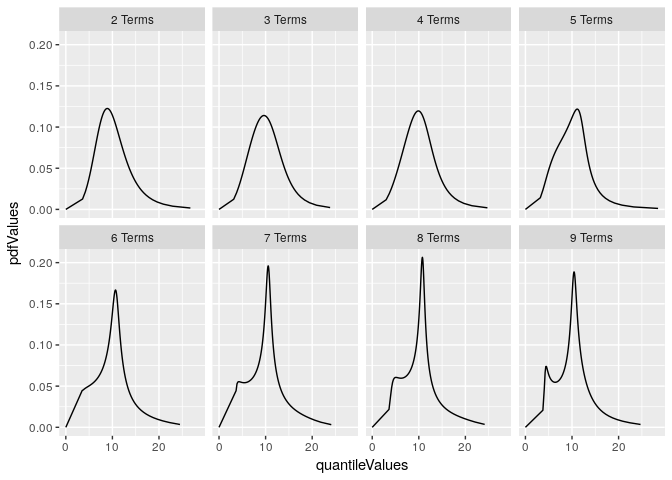
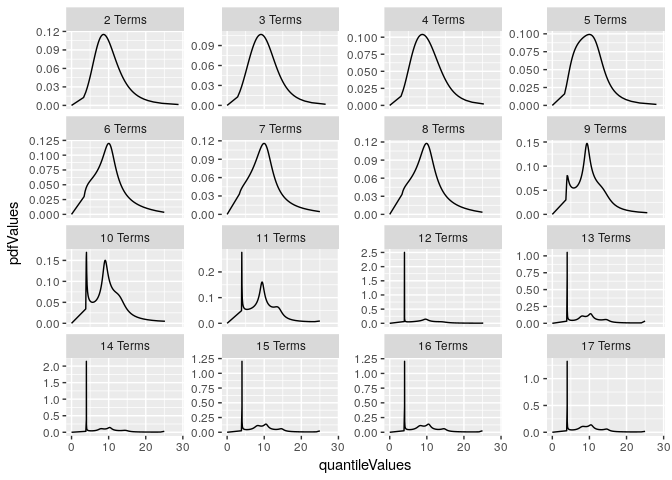
updating the readme with better plots

diff --git a/README.md b/README.md
@@ -61,12 +61,12 @@ In order to create a metalog distribution use the function and assigned the outp
 
 ``` r
 #use a smaller subset for performance
-mysample <- fishSize[sample(1:nrow(fishSize), 200,replace=FALSE),]
+mysample <- fishSize[sample(1:nrow(fishSize), 250,replace=FALSE),]
 myMetalog <- rMetalog(mysample,
                       step_len = .01,
                       bounds=0,
                       boundedness = 'sl',
-                      term_limit = 9)
+                      term_limit = 17)
 #> [1] "Building the metalog distributions now"
 #> [1] "Building distribution functions and samples"
 ```
@@ -93,10 +93,16 @@ myMetalog$Validation
 You can now plot some of the results using
 
 ``` r
-myMetalog$GridPlot
+myMetalog$GridPlotPDF
 ```
 
 ![](README-unnamed-chunk-9-1.png)
+
+``` r
+myMetalog$GridPlotCDF
+```
+
+![](README-unnamed-chunk-10-1.png)
 
 As this package evolves this list will include some additional functionality
 
